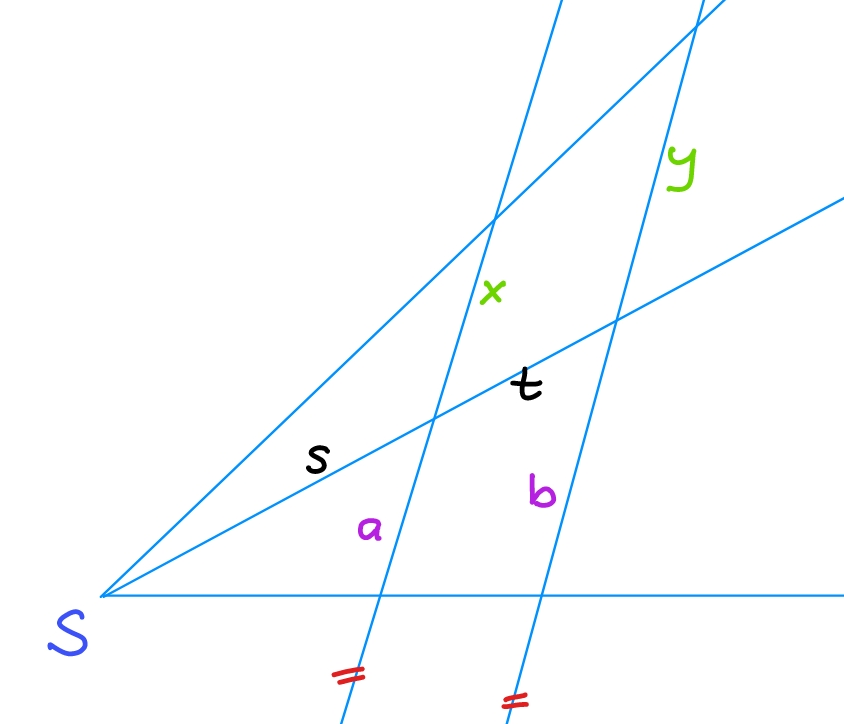
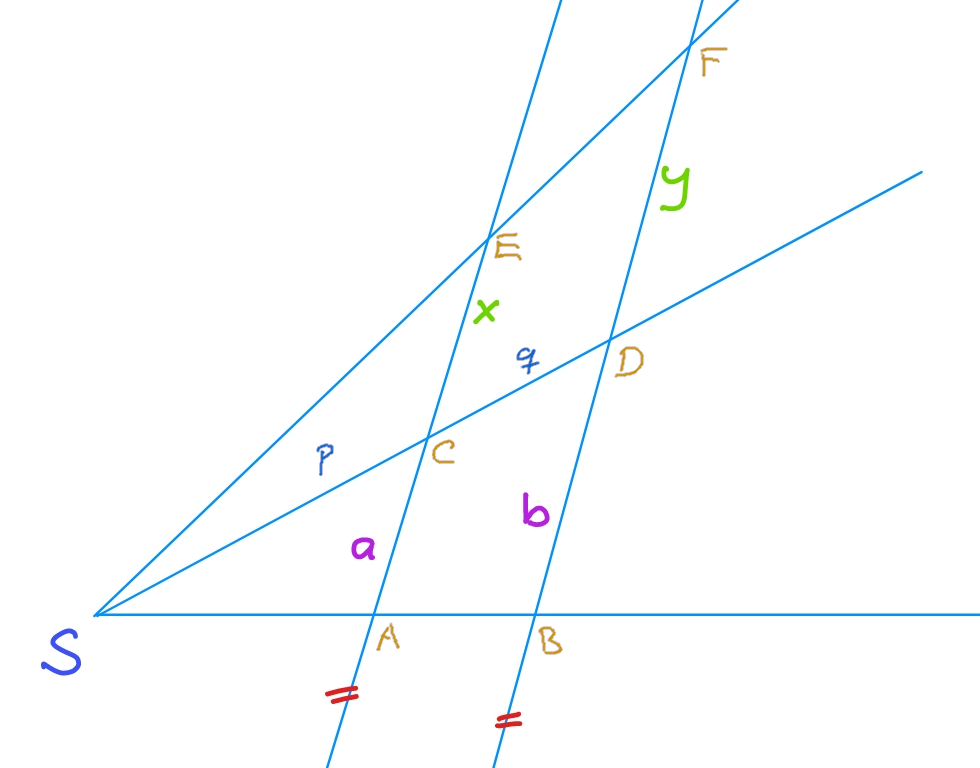
Skript Vektorgeometrie überarbeitet

diff --git a/thema/tals/plani/Kreisberechnungen.tex b/thema/tals/plani/Kreisberechnungen.tex
@@ -75,19 +75,72 @@ Herleitung
   $A_{\text{Sektor}}=A_{\text{SK}}$ wie folgt berechnet:
   
   $$b = 2r\pi \cdot{}\frac{\varphi}{360\degre} = r\cdot{} \varphi
-  \cdot{} \frac{\pi}{180\degre}= r\cdot{} \stackrel{\frown}{\varphi}$$
+  \cdot{} \frac{\pi}{180\degre}$$
   $$A_{\text{SK}} = r^2\pi\cdot{}\frac{\varphi}{360\degre} = \frac12\cdot{}b\cdot{}r$$
 \end{gesetz}
 
 
-Begründung \LoesungsRaumLang{Dreisatz}
-\TNT{6}{Bogen: Es gilt das Verhältnis
+Begründung
+
+
+\TNT{6}{Dreisatz: Bogen: Es gilt das Verhältnis
   $$b : (2r\pi) = \varphi : 360\degre$$
 
   Analog Fläche:
   $$A_{\text{SK}} : (r^2\pi) = \varphi : 360\degre$$
   $$A_{\text{SK}} \cdot{} 360\degre = r^2\pi\cdot{}\varphi$$
 }
+
+\begin{gesetz}{Bogenmaß}{}\index{Kreissektor}\index{Kreisbogen}
+  Im Bogenmaß gilt:
+
+  $$b = r\cdot{} \stackrel{\frown}{\varphi}$$
+  und
+
+  $$A_{\text{SK}} = \frac{r^2}{2}\cdot{} \stackrel{\frown}{\varphi}$$
+\end{gesetz}
+
+\newpage
+
+\subsection*{Referenzaufgabe}
+Zu einem Halbkreis mit Radius 1 (eine Einheit) wird ein rechtwinkliges
+Dreieck $MAB$ wie folgt konstruiert:
+
+
+\bbwCenterGraphic{6cm}{tals/plani/img/ReferenzaufgabeKreisbogen.png}
+
+
+Berechnen Sie den Winkel $\stackrel{\frown}{\varphi}$ (bzw. $\varphi$)
+so, dass die beiden beschrifteten Flächen $F_1$ und $F_2$ gleich groß
+werden.
+
+\TNTeop{
+  Lösung
+
+  $F_1 = \frac{1}{2} \cdot{} \stackrel{\frown}{\varphi}$
+
+  $F_2 = F_1 = \text{halbe Dreiecksfläche}$
+
+  Dreiecksfläche: $\overline{AB}:1 = \tan\left(\stackrel{\frown}{\varphi}\right)$
+  Daher: Dreiecksfläche = $\frac12 \cdot{}\tan
+  \left(\stackrel{\frown}{\varphi}\right) $
+
+  und halbe Dreiecksfläche = $F_1 = F_2 = \frac{1}{4} \cdot{} \tan \left(\stackrel{\frown}{\varphi}\right)$
+
+  
+  Nun lösen wir mit dem Taschenrechner im Bogenmaß:
+
+  $$F_1 = F_2$$
+
+  also: SOLVE (gl,$\varphi$) mit gl:  
+
+  $$\frac{1}{2} \cdot{} \stackrel{\frown}{\varphi} = \frac{1}{4} \cdot{} \tan\left(\stackrel{\frown}{\varphi}\right)$$
+
+  Einschränken auf $\varphi < \pi : 2$ liefert $\varphi \approx
+  1.166$ im Bogenmaß $\approx 66.78$ Grad.
+  
+}
+\newpage
 
 \subsection*{Aufgaben}
 
@@ -120,10 +173,12 @@ Begründung \LoesungsRaumLang{Dreisatz}
 \end{gesetz}
 
 \begin{bemerkung}{Bogenmaß}{}
-  Alternativ kann der Sektor auch mit dem Bogenmaß, bzw. die
+  Alternativ kann der Sektor auch mit dem Bogenmaß $(\stackrel{\frown}{\varphi})$, bzw. die
   Dreiecksfläche mit der Flächenformel berechnet werden:
 
-  $$A_{\text{SG}} = \frac{\stackrel{\frown}{\varphi}\cdot{} r}2 - \frac12 r^2  \sin(\varphi)$$
+  $$A_{\text{SG}} = \frac{\stackrel{\frown}{\varphi}\cdot{} r^2}2 -
+  \frac12 r^2  \sin(\stackrel{\frown}{\varphi}) = r^2 \cdot{}
+  \frac{\stackrel{\frown}{\varphi} - \sin(\stackrel{\frown}{\varphi})}{2}$$
 \end{bemerkung}
 
 \newpage

diff --git a/thema/tals/plani/Strahlensaetze.tex b/thema/tals/plani/Strahlensaetze.tex
@@ -39,14 +39,17 @@ Somit gelten \zB{} folgende Ähnlichkeiten...
 \TNT{5.6}{
   Die unteren beiden Dreiecke haben eine gemeinsame Seite zu den
   beiden oberen Dreiecken.
-  $$a: b = s : (s+t) = x:y$$
-  \vspace{22mm}
+  $$\Delta SCA \sim \Delta SDB \Longrightarrow a:b = p : (p+q) $$
+  $$\Delta SCE \sim \Delta SDF \Longrightarrow x:y = p : (p+q) $$
+  ergo
+  $$a:b = x:y$$
+  \vspace{10mm}
 }%% END TNT
 
 
 \begin{bemerkung}{Außenglieder, Innenglieder}{}\index{Innenglieder!Brüche}\index{Aussenglieder@Außenglieder!Brüche}
 Das Produkt der Innenglieder ist gleich dem Produkt der Außenglieder:
-$${\color{ForestGreen} a}:{\color{red} b}={\color{gray} c}:{\color{blue} d}  \Longleftrightarrow \frac{{\color{ForestGreen} a}}{{\color{red} b}}=\frac{{\color{gray} c}}{{\color{blue} d}} \Longrightarrow {\color{red} b}\cdot{}{\color{gray} c}={\color{ForestGreen} a}\cdot{}{\color{blue} d}$$0
+$${\color{ForestGreen} a}:{\color{red} b}={\color{gray} c}:{\color{blue} d}  \Longleftrightarrow \frac{{\color{ForestGreen} a}}{{\color{red} b}}=\frac{{\color{gray} c}}{{\color{blue} d}} \Longrightarrow {\color{red} b}\cdot{}{\color{gray} c}={\color{ForestGreen} a}\cdot{}{\color{blue} d}$$
 \end{bemerkung}
 
 
@@ -54,7 +57,7 @@ $${\color{ForestGreen} a}:{\color{red} b}={\color{gray} c}:{\color{blue} d}  \Lo
 \subsection*{Aufgaben}
 %%\TALSAadBFWG{57 \zB}{225. a) b) 226. 231.}
 %% Aufgabe 3 nicht mehr, da im Buch falsch
-\AadBMTG{79}{4., 5., 6., 7.}
+\AadBMTG{79ff}{4., 5., 6., 7.}
 \aufgabenFarbe{Strukturaufgaben: 3. z) aa)}
 
 \GESOAadBMTA{???}{???}

diff --git a/thema/tals/plani/Pythagoras.tex b/thema/tals/plani/Pythagoras.tex
@@ -3,8 +3,7 @@
 %%
 
 \section{Satz des Pythagoras}\index{Pythagoras!Planimetrie}\index{Satz des Pythagoras!Planimetrie}
-\sectuntertitel{Warum sitzen die Mathematiker im Winter immer in eine
-  Ecke? --- Weil dort bestimmt 90 Grad ist.}
+\sectuntertitel{Warum sitzen Mathematiker in der Sauna in die Ecke? --- Weil dort bestimmt 90 Grad ist.}
 %%%%%%%%%%%%%%%%%%%%%%%%%%%%%%%%%%%%%%%%%%%%%%%%%%%%%%%%%%%%%%%%%%%%%%%%%%%%%%%%%
 \TadBMTG{29}{2.3.2}
 
@@ -22,7 +21,7 @@ Repetition \ifisALLINONE{\totalref{satzDesPythagoras}}\fi
 
 %%\TALSAadBFWG{23}{56. 57. 58. 60. 63. }
 \subsection*{Aufgaben}
-\AadBMTG{37}{11., 12., 13. und 31.}
+\AadBMTG{37ff}{11., 12., 13. und 31.}
 %%\GESOAadBMTA{???}{???}
 \newpage
 \subsection{Spezielle Dreiecke}
@@ -64,8 +63,8 @@ Repetition: Halbes Quadrat und halbes gleichseitiges Dreieck \ifisALLINONE{\tota
 
 \newpage
 \subsection*{Aufgaben}
-\AadBMTG{38ff}{29., 32., (optional, da Stereometrie: 38., 40. und 41.)}
+\AadBMTG{38ff}{19., 20., 24., 26.*, 29., 32., 41.}
 
-\olatLinkArbeitsblatt{Strukturaufgaben}{https://olat.bms-w.ch/auth/RepositoryEntry/6029786/CourseNode/107682599240642}{VT1\_4. (Tangenten mit 120\degre) und VT1\_5 (Spezielle Winkel)}
+\olatLinkTALSStrukturaufgabenGLF{GLF}{18}{VT1\_4. (Tangenten mit 120\degre) und VT1\_5 (Spezielle Winkel)}
 
 \newpage

diff --git a/thema/tals/plani/Vielecke.tex b/thema/tals/plani/Vielecke.tex
@@ -80,8 +80,6 @@ Um geometrische Aufgaben zu lösen, hat bei mir folgendes meist geholfen:
 \item Geben Sie Gegebenem und Gesuchtem Namen
 \item Verwenden Sie Farben für Gegebenes
 \item Verwenden Sie die selben Farben (od. Symbole) für die selben Streckenlängen, Winkel, Flächen
-\item Bei Aufgaben mit berührenden Kreisen: Verbinden Sie die
-  Mittelpunkte und verlängern Sie durch den Berührungspunkt
 \item Suchen Sie rechtwinklige Dreiecke (Pythagoras)
 
 \end{enumerate}
@@ -101,8 +99,6 @@ Um geometrische Aufgaben zu lösen, hat bei mir folgendes meist geholfen:
 \aufgabenFarbe{Maturitätsprüfung Grundlagenfach 2022 (Teil 1 ohne
   Taschenrechner): Aufgabe 8 (Sechseck)}
 
-
-\GESOAadBMTA{???}{???}
 \newpage
 
 

diff --git a/thema/tals/plani/Streckungsfaktor.tex b/thema/tals/plani/Streckungsfaktor.tex
@@ -56,9 +56,10 @@ Daraus ergibt sich durch Division:
 Für die Flächen $A$ (Figur $\mathbb{P}$) und $A'$ (Figur $\mathbb{R}$) gilt jedoch
 
 \begin{gesetz}{Flächen ähnlicher Figuren}{}
-  $$\frac{A'}{A} = k^2$$
-  bzw.
-  $$A' = k^2 \cdot{} A$$
+  Mit dem Streckungsfaktor $k \left(=\frac{a'}{a}\right)$ gilt für die
+  Flächen ähnlicher Figuren:
+  
+  $$A' = k^2 \cdot{} A  \text{ bzw. } k = \sqrt{\frac{A'}{A}}$$
 \end{gesetz}
 
 

diff --git a/thema/tals/stereo/Zylinder.tex b/thema/tals/stereo/Zylinder.tex
@@ -50,7 +50,9 @@ Der beliebige Quader hat die Seiten $a$, $b$ und $c$:
 
 \subsection*{Aufgaben}
 %%\TALSAadBFWG{139ff}{21. d) und 24. a) b)}
-\TALSAadBMTG{41ff}{37. (Körperdiagonale im Würfel)}
+\TALSAadBMTG{41ff}{37. (Körperdiagonale im Würfel),
+  38. (Körperdiagonale im Quader), 40. (Schnittfläche
+im Würfel)}
 \TALSAadBMTG{194ff}{5., 11.}
 
 \newpage
